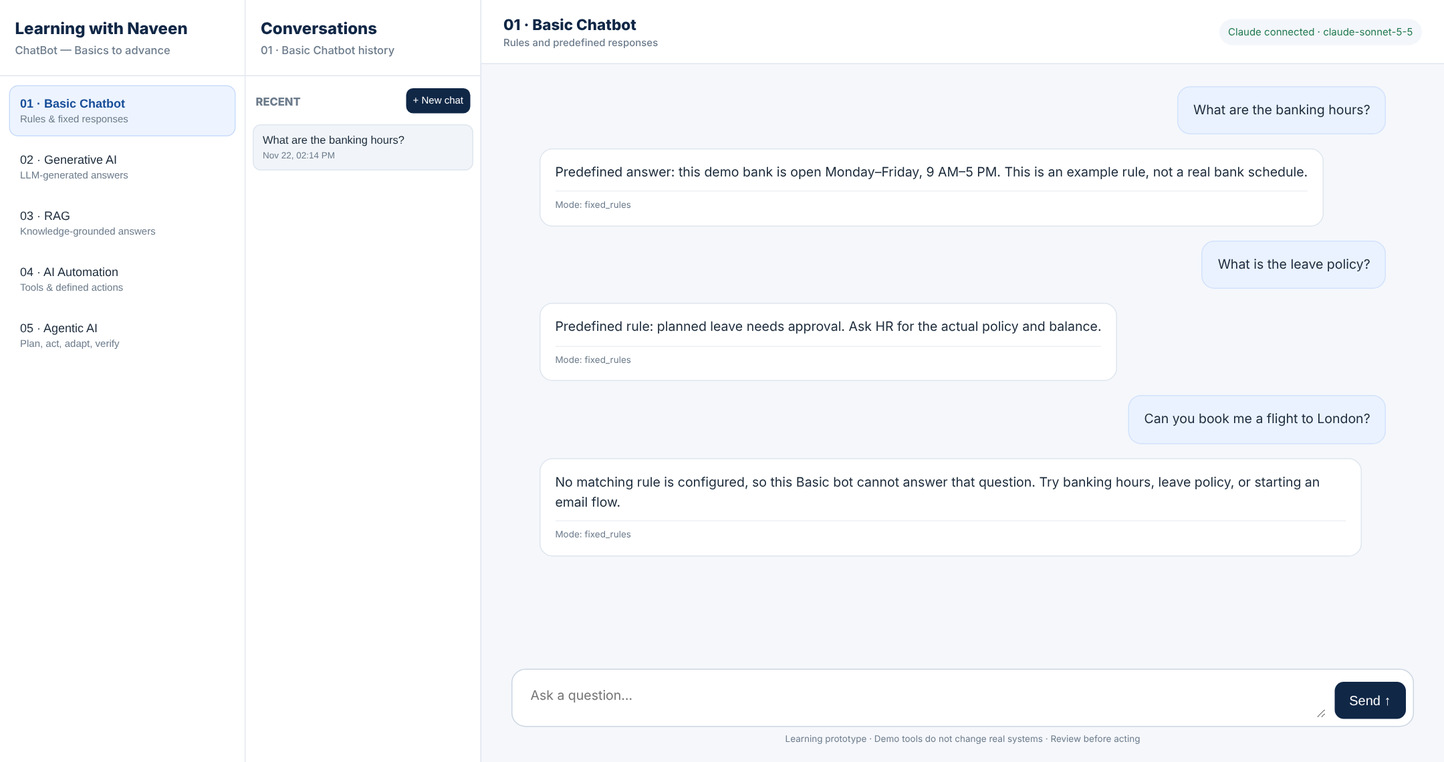
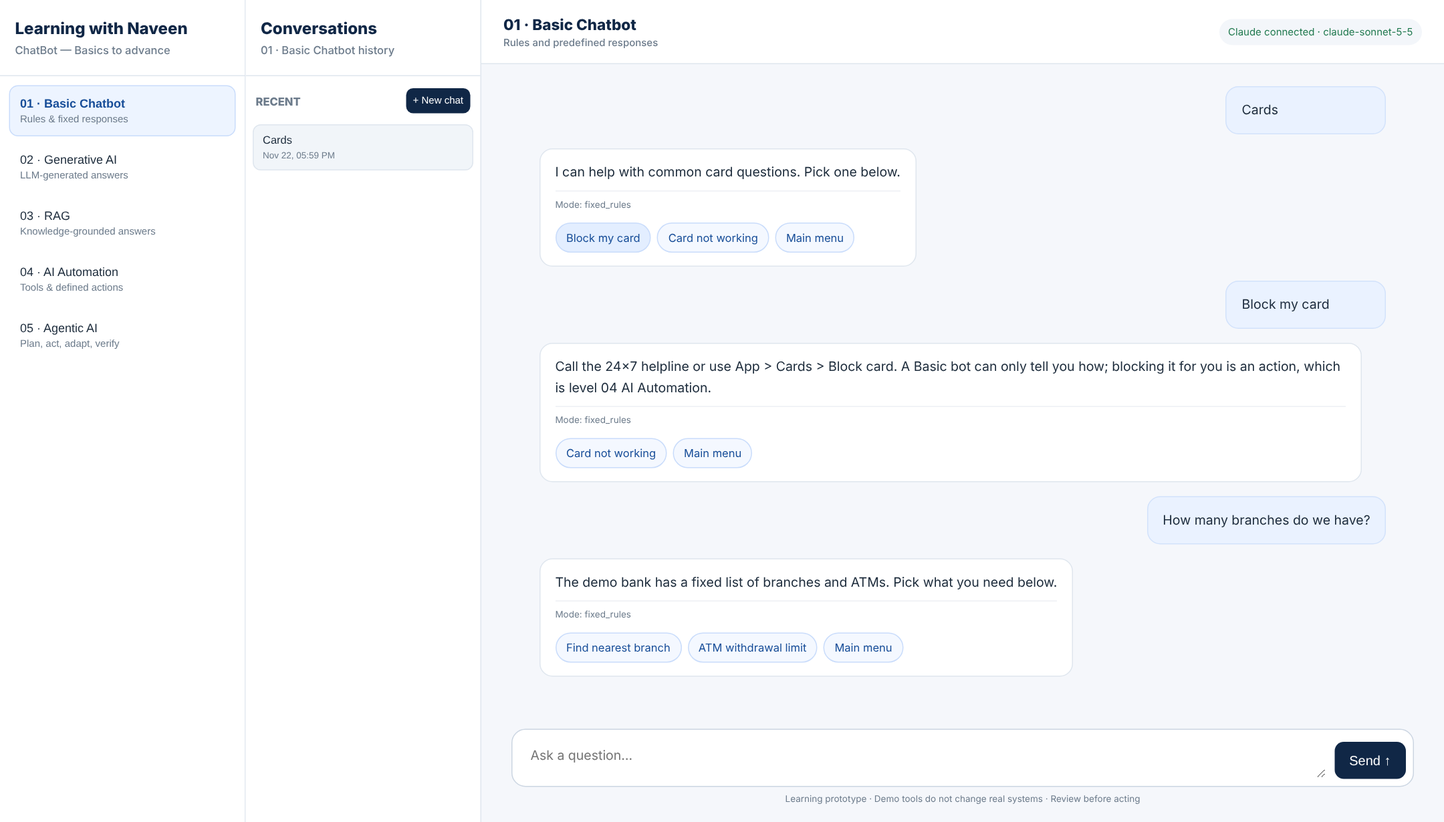
Basic chatbot: guided menu with follow-up questions

diff --git a/static/index.html b/static/index.html
@@ -1,6 +1,6 @@
 <!doctype html><html lang="en"><head><meta charset="utf-8"><meta name="viewport" content="width=device-width,initial-scale=1"><title>Learning with Naveen | Chatbot Lab</title>
 <style>
-:root{--navy:#102746;--blue:#2876d2;--cyan:#25b6df;--purple:#805ac2;--green:#299e70;--gold:#eab037;--ink:#1c2b3b;--muted:#6c7b8b;--line:#dfe6ee;--bg:#f5f7fb}*{box-sizing:border-box}body{margin:0;font-family:Inter,"Segoe UI",Arial,sans-serif;color:var(--ink);background:var(--bg);height:100vh;overflow:hidden}.app{display:grid;grid-template-columns:245px 235px minmax(320px,1fr);height:100vh}.side{background:#fff;border-right:1px solid var(--line);display:flex;flex-direction:column;min-height:0}.brand{padding:18px 15px;border-bottom:1px solid var(--line);font-weight:800;color:var(--navy)}.brand small{display:block;font-size:11px;color:var(--muted);font-weight:500;margin-top:5px}.bots{padding:9px;display:grid;gap:5px}.bot{border:1px solid transparent;background:white;text-align:left;padding:10px;border-radius:9px;cursor:pointer;color:var(--ink);font-size:12px}.bot.active{background:#edf4ff;border-color:#c9dcfb;color:#174d98;font-weight:700}.bot span{display:block;color:var(--muted);font-size:10px;font-weight:400;margin-top:4px}.histhead{padding:12px 10px 8px;font-size:11px;font-weight:800;color:var(--muted);display:flex;justify-content:space-between;align-items:center}.new{border:0;background:var(--navy);color:white;border-radius:7px;padding:7px;cursor:pointer;font-size:10px}.history{padding:0 7px 12px;overflow:auto}.item{width:100%;text-align:left;border:1px solid transparent;background:white;padding:9px;border-radius:8px;cursor:pointer;margin:3px 0;color:var(--ink);font-size:11px;white-space:nowrap;overflow:hidden;text-overflow:ellipsis}.item.active{background:#f1f5f9;border-color:var(--line)}.item small{display:block;color:var(--muted);font-size:9px;margin-top:4px}.main{display:flex;flex-direction:column;min-width:0;min-height:0}.top{height:64px;display:flex;align-items:center;justify-content:space-between;padding:0 22px;background:white;border-bottom:1px solid var(--line)}.tt{font-weight:800;color:var(--navy);font-size:15px}.tt small{display:block;font-size:10px;font-weight:500;color:var(--muted);margin-top:3px}.status{font-size:10px;color:var(--muted);background:#f3f6fa;border-radius:99px;padding:7px 9px}.messages{flex:1;overflow:auto;padding:22px clamp(16px,4vw,60px);display:flex;flex-direction:column;gap:14px}.welcome{max-width:700px;margin:auto;text-align:center;padding:22px}.symbol{font-size:34px}.welcome h1{font-size:24px;color:var(--navy);margin:12px 0 8px}.welcome p{color:var(--muted);line-height:1.6;font-size:13px}.quick{display:flex;gap:8px;justify-content:center;flex-wrap:wrap;margin-top:18px}.quick button{border:1px solid var(--line);background:white;padding:9px 11px;border-radius:10px;cursor:pointer;color:var(--ink);font-size:11px}.msg{max-width:820px;width:fit-content;min-width:160px;padding:13px 15px;border:1px solid var(--line);background:white;border-radius:13px;line-height:1.55;font-size:13px;white-space:pre-wrap;overflow-wrap:anywhere}.msg.user{align-self:flex-end;background:#eaf2ff;border-color:#d2e2fb}.msg.assistant{align-self:flex-start}.meta{font-size:9px;color:var(--muted);margin-top:8px;border-top:1px solid #edf0f4;padding-top:7px}.composerwrap{padding:12px 22px 17px;background:linear-gradient(transparent,var(--bg) 20%)}.composer{max-width:900px;margin:auto;background:white;border:1px solid #ccd6e2;border-radius:14px;padding:7px;display:flex;align-items:flex-end;gap:8px}.composer textarea{border:0;outline:0;resize:vertical;flex:1;min-height:42px;max-height:130px;padding:11px;font:inherit;font-size:13px;color:var(--ink)}.send{background:var(--navy);color:white;border:0;border-radius:9px;padding:11px 15px;cursor:pointer}.send:disabled{opacity:.5}.foot{text-align:center;color:var(--muted);font-size:9px;margin-top:7px}@media(max-width:800px){.app{grid-template-columns:175px minmax(280px,1fr)}.botside{display:none}.messages{padding:14px}.top{padding:0 13px}}@media(max-width:550px){.app{grid-template-columns:65px minmax(0,1fr)}.brand{padding:12px 5px;font-size:10px}.brand small{display:none}.bots{padding:4px}.bot{font-size:9px;padding:8px 3px}.bot span{display:none}.histhead{font-size:0;padding:7px 3px}.new{font-size:8px;padding:5px}.item{font-size:9px;padding:6px}.item small{display:none}.status{display:none}}
+:root{--navy:#102746;--blue:#2876d2;--cyan:#25b6df;--purple:#805ac2;--green:#299e70;--gold:#eab037;--ink:#1c2b3b;--muted:#6c7b8b;--line:#dfe6ee;--bg:#f5f7fb}*{box-sizing:border-box}body{margin:0;font-family:Inter,"Segoe UI",Arial,sans-serif;color:var(--ink);background:var(--bg);height:100vh;overflow:hidden}.app{display:grid;grid-template-columns:245px 235px minmax(320px,1fr);height:100vh}.side{background:#fff;border-right:1px solid var(--line);display:flex;flex-direction:column;min-height:0}.brand{padding:18px 15px;border-bottom:1px solid var(--line);font-weight:800;color:var(--navy)}.brand small{display:block;font-size:11px;color:var(--muted);font-weight:500;margin-top:5px}.bots{padding:9px;display:grid;gap:5px}.bot{border:1px solid transparent;background:white;text-align:left;padding:10px;border-radius:9px;cursor:pointer;color:var(--ink);font-size:12px}.bot.active{background:#edf4ff;border-color:#c9dcfb;color:#174d98;font-weight:700}.bot span{display:block;color:var(--muted);font-size:10px;font-weight:400;margin-top:4px}.histhead{padding:12px 10px 8px;font-size:11px;font-weight:800;color:var(--muted);display:flex;justify-content:space-between;align-items:center}.new{border:0;background:var(--navy);color:white;border-radius:7px;padding:7px;cursor:pointer;font-size:10px}.history{padding:0 7px 12px;overflow:auto}.item{width:100%;text-align:left;border:1px solid transparent;background:white;padding:9px;border-radius:8px;cursor:pointer;margin:3px 0;color:var(--ink);font-size:11px;white-space:nowrap;overflow:hidden;text-overflow:ellipsis}.item.active{background:#f1f5f9;border-color:var(--line)}.item small{display:block;color:var(--muted);font-size:9px;margin-top:4px}.main{display:flex;flex-direction:column;min-width:0;min-height:0}.top{height:64px;display:flex;align-items:center;justify-content:space-between;padding:0 22px;background:white;border-bottom:1px solid var(--line)}.tt{font-weight:800;color:var(--navy);font-size:15px}.tt small{display:block;font-size:10px;font-weight:500;color:var(--muted);margin-top:3px}.status{font-size:10px;color:var(--muted);background:#f3f6fa;border-radius:99px;padding:7px 9px}.messages{flex:1;overflow:auto;padding:22px clamp(16px,4vw,60px);display:flex;flex-direction:column;gap:14px}.welcome{max-width:700px;margin:auto;text-align:center;padding:22px}.symbol{font-size:34px}.welcome h1{font-size:24px;color:var(--navy);margin:12px 0 8px}.welcome p{color:var(--muted);line-height:1.6;font-size:13px}.quick{display:flex;gap:8px;justify-content:center;flex-wrap:wrap;margin-top:18px}.quick button{border:1px solid var(--line);background:white;padding:9px 11px;border-radius:10px;cursor:pointer;color:var(--ink);font-size:11px}.msg{max-width:820px;width:fit-content;min-width:160px;padding:13px 15px;border:1px solid var(--line);background:white;border-radius:13px;line-height:1.55;font-size:13px;white-space:pre-wrap;overflow-wrap:anywhere}.msg.user{align-self:flex-end;background:#eaf2ff;border-color:#d2e2fb}.msg.assistant{align-self:flex-start}.opts{display:flex;gap:6px;flex-wrap:wrap;margin-top:10px;white-space:normal}.opts button{border:1px solid #c9dcfb;background:#f4f8ff;color:#174d98;padding:7px 10px;border-radius:99px;cursor:pointer;font-size:11px;font-family:inherit}.opts button:hover{background:#e3eeff}.opts button:disabled{opacity:.5;cursor:default}.meta{font-size:9px;color:var(--muted);margin-top:8px;border-top:1px solid #edf0f4;padding-top:7px}.composerwrap{padding:12px 22px 17px;background:linear-gradient(transparent,var(--bg) 20%)}.composer{max-width:900px;margin:auto;background:white;border:1px solid #ccd6e2;border-radius:14px;padding:7px;display:flex;align-items:flex-end;gap:8px}.composer textarea{border:0;outline:0;resize:vertical;flex:1;min-height:42px;max-height:130px;padding:11px;font:inherit;font-size:13px;color:var(--ink)}.send{background:var(--navy);color:white;border:0;border-radius:9px;padding:11px 15px;cursor:pointer}.send:disabled{opacity:.5}.foot{text-align:center;color:var(--muted);font-size:9px;margin-top:7px}@media(max-width:800px){.app{grid-template-columns:175px minmax(280px,1fr)}.botside{display:none}.messages{padding:14px}.top{padding:0 13px}}@media(max-width:550px){.app{grid-template-columns:65px minmax(0,1fr)}.brand{padding:12px 5px;font-size:10px}.brand small{display:none}.bots{padding:4px}.bot{font-size:9px;padding:8px 3px}.bot span{display:none}.histhead{font-size:0;padding:7px 3px}.new{font-size:8px;padding:5px}.item{font-size:9px;padding:6px}.item small{display:none}.status{display:none}}
 </style></head><body><div class="app">
 <aside class="side botside"><div class="brand">Learning with Naveen<small>ChatBot — Basics to advance</small></div><div class="bots">
 <button class="bot active" data-bot="basic">01 · Basic Chatbot<span>Rules & fixed responses</span></button><button class="bot" data-bot="generative">02 · Generative AI<span>LLM-generated answers</span></button><button class="bot" data-bot="rag">03 · RAG<span>Knowledge-grounded answers</span></button><button class="bot" data-bot="automation">04 · AI Automation<span>Tools & defined actions</span></button><button class="bot" data-bot="agentic">05 · Agentic AI<span>Plan, act, adapt, verify</span></button></div></aside>
@@ -9,15 +9,17 @@
 <script>
 const bots={basic:{title:"01 · Basic Chatbot",sub:"Rules and predefined responses",symbol:"💬"},generative:{title:"02 · Generative AI",sub:"LLM-generated answers",symbol:"✨"},rag:{title:"03 · RAG",sub:"Retrieval-augmented generation",symbol:"📚"},automation:{title:"04 · AI Automation",sub:"LLM plus allow-listed demo tools",symbol:"⚙"},agentic:{title:"05 · Agentic AI",sub:"Bounded plan, act, observe and verify",symbol:"🎯"}};
 let bot="basic",cid=null,busy=false;const $=x=>document.getElementById(x);function esc(s){return s.replace(/[&<>"']/g,c=>({"&":"&amp;","<":"&lt;",">":"&gt;",'"':"&quot;","'":"&#39;"}[c]))}function date(s){try{return new Date(s).toLocaleString([],{month:"short",day:"numeric",hour:"2-digit",minute:"2-digit"})}catch{return""}}
-function welcome(){$("messages").innerHTML=`<div class="welcome"><div class="symbol">${bots[bot].symbol}</div><h1>${bots[bot].title}</h1><p>${bots[bot].sub}. Ask a question below. Switch bots to compare capabilities.</p><div class="quick"><button>Explain a declined payment</button><button>What is the leave policy?</button><button>Help me draft an email</button></div></div>`;document.querySelectorAll(".quick button").forEach(b=>b.onclick=()=>{$("input").value=b.textContent;$("input").focus()})}
-function add(role,text,meta){$("messages").querySelector(".welcome")?.remove();let d=document.createElement("div");d.className="msg "+role;d.textContent=text;if(meta){let m=document.createElement("div");m.className="meta";let p=[];if(meta.sources?.length)p.push("Sources: "+meta.sources.map(x=>x.source).join(", "));if(meta.tools?.length)p.push("Tools: "+meta.tools.map(x=>x.tool).join(", "));if(meta.mode)p.push("Mode: "+meta.mode);m.textContent=p.join(" · ");d.appendChild(m)}$("messages").appendChild(d);$("messages").scrollTop=$("messages").scrollHeight}
+function welcome(){let menu=bot==="basic";$("messages").innerHTML=`<div class="welcome"><div class="symbol">${bots[bot].symbol}</div><h1>${bots[bot].title}</h1><p>${bots[bot].sub}. ${menu?"Pick a topic below; each answer offers the next questions.":"Ask a question below. Switch bots to compare capabilities."}</p><div class="quick">${menu?"":"<button>Explain a declined payment</button><button>What is the leave policy?</button><button>Help me draft an email</button>"}</div></div>`;if(menu){api("/api/basic/menu").then(m=>{let q=$("messages").querySelector(".quick");if(!q)return;m.options.forEach(o=>{let b=document.createElement("button");b.textContent=o;b.onclick=()=>send(o);q.appendChild(b)})}).catch(()=>{})}else document.querySelectorAll(".quick button").forEach(b=>b.onclick=()=>{$("input").value=b.textContent;$("input").focus()})}
+function add(role,text,meta){$("messages").querySelector(".welcome")?.remove();let d=document.createElement("div");d.className="msg "+role;d.textContent=text;if(meta){let m=document.createElement("div");m.className="meta";let p=[];if(meta.sources?.length)p.push("Sources: "+meta.sources.map(x=>x.source).join(", "));if(meta.tools?.length)p.push("Tools: "+meta.tools.map(x=>x.tool).join(", "));if(meta.mode)p.push("Mode: "+meta.mode);if(p.length){m.textContent=p.join(" · ");d.appendChild(m)}if(meta.options?.length)d.appendChild(chips(meta.options))}$("messages").appendChild(d);$("messages").scrollTop=$("messages").scrollHeight}
+function chips(list){let o=document.createElement("div");o.className="opts";list.forEach(t=>{let b=document.createElement("button");b.type="button";b.textContent=t;b.onclick=()=>send(t);o.appendChild(b)});return o}
 async function api(url,opt={}){let r=await fetch(url,{headers:{"Content-Type":"application/json"},...opt});let d=await r.json().catch(()=>({detail:"Server response could not be read"}));if(!r.ok)throw Error(d.detail||"Request failed");return d}
 async function refresh(){let list=await api("/api/conversations?bot="+bot);$("history").innerHTML="";if(!list.length){$("history").innerHTML='<div style="padding:10px;color:#8996a5;font-size:11px">No chats yet. Start a conversation.</div>';return}list.forEach(x=>{let b=document.createElement("button");b.className="item"+(x.id===cid?" active":"");b.innerHTML=esc(x.title)+"<small>"+date(x.updated_at)+"</small>";b.onclick=()=>open(x.id);$("history").appendChild(b)})}
 async function fresh(){let x=await api("/api/conversations",{method:"POST",body:JSON.stringify({bot})});cid=x.id;welcome();await refresh();$("input").focus()}
-async function open(id){let d=await api("/api/conversations/"+id);cid=id;$("messages").innerHTML="";d.messages.forEach(m=>add(m.role,m.content));await refresh()}
+async function open(id){let d=await api("/api/conversations/"+id);cid=id;$("messages").innerHTML="";d.messages.forEach(m=>add(m.role,m.content));if(bot==="basic"&&d.messages.length){try{let m=await api("/api/basic/menu");add("assistant",m.answer,{options:m.options})}catch{}}await refresh()}
 async function switchBot(b){bot=b;cid=null;document.querySelectorAll(".bot").forEach(x=>x.classList.toggle("active",x.dataset.bot===bot));$("title").innerHTML=esc(bots[bot].title)+"<small>"+esc(bots[bot].sub)+"</small>";$("hsub").textContent=bots[bot].title+" history";await refresh();welcome()}
 document.querySelectorAll(".bot").forEach(b=>b.onclick=()=>switchBot(b.dataset.bot));$("new").onclick=()=>fresh();
-$("form").onsubmit=async e=>{e.preventDefault();if(busy)return;let text=$("input").value.trim();if(!text)return;busy=true;$("send").disabled=true;$("input").value="";try{if(!cid)await fresh();add("user",text);let wait=document.createElement("div");wait.className="msg assistant";wait.textContent="Thinking…";$("messages").appendChild(wait);try{let d=await api("/api/chat",{method:"POST",body:JSON.stringify({conversation_id:cid,bot,message:text})});wait.remove();add("assistant",d.answer,d.metadata);await refresh()}catch(err){wait.remove();add("assistant","Could not complete request: "+err.message)}}catch(err){add("assistant","Could not create conversation: "+err.message)}finally{busy=false;$("send").disabled=false;$("input").focus()}};
+async function send(text){text=(text||"").trim();if(busy||!text)return;busy=true;$("send").disabled=true;$("input").value="";try{if(!cid)await fresh();add("user",text);let wait=document.createElement("div");wait.className="msg assistant";wait.textContent="Thinking…";$("messages").appendChild(wait);try{let d=await api("/api/chat",{method:"POST",body:JSON.stringify({conversation_id:cid,bot,message:text})});wait.remove();add("assistant",d.answer,d.metadata);await refresh()}catch(err){wait.remove();add("assistant","Could not complete request: "+err.message)}}catch(err){add("assistant","Could not create conversation: "+err.message)}finally{busy=false;$("send").disabled=false;$("input").focus()}}
+$("form").onsubmit=e=>{e.preventDefault();send($("input").value)};
 $("input").addEventListener("keydown",e=>{if(e.key==="Enter"&&!e.shiftKey){e.preventDefault();$("form").requestSubmit()}});
 api("/api/health").then(h=>{$("status").textContent=h.llm_configured?"Claude connected · "+h.model:"Anthropic key needed";$("status").style.color=h.llm_configured?"#227a50":"#9a6200"}).catch(()=>$("status").textContent="Start backend to connect");switchBot("basic").catch(welcome);
 </script></body></html>

diff --git a/app.py b/app.py
@@ -123,16 +123,67 @@ def history(cid):
         return [dict(x) for x in c.execute("SELECT role,content FROM messages WHERE conversation_id=? ORDER BY id", (cid,)).fetchall()]
 
 
-# ---------- 01 Basic: fixed rules ----------
+# ---------- 01 Basic: fixed rules with a guided menu ----------
+# Each node: button label, fixed answer, follow-up options (node ids), keywords for typed questions.
+# Answers are demo content for a fictional bank and company, not real policies.
+BASIC_TREE = {
+    "menu": {"label": "Main menu", "answer": "Choose a topic below. This Basic bot only knows these fixed answers.",
+             "options": ["hours", "branches", "cards", "leave", "email"], "keywords": ["menu", "help", "start", "hi", "hello"]},
+    # top level
+    "hours": {"label": "Banking hours", "answer": "This demo bank is open Monday to Friday, 9 AM to 5 PM. This is an example rule, not a real bank schedule.",
+              "options": ["holidays", "cutoff", "menu"], "keywords": ["banking hours", "bank hours", "opening hours", "working hours", "open", "timing"]},
+    "branches": {"label": "Branches and ATMs", "answer": "The demo bank has a fixed list of branches and ATMs. Pick what you need below.",
+                 "options": ["nearest", "atm_limit", "menu"], "keywords": ["branch", "branches", "location", "locations", "atm"]},
+    "cards": {"label": "Cards", "answer": "I can help with common card questions. Pick one below.",
+              "options": ["block", "not_working", "menu"], "keywords": ["card", "cards"]},
+    "leave": {"label": "Leave policy", "answer": "Planned leave needs manager approval and should be requested 5 working days ahead (demo rule).",
+              "options": ["apply", "balance", "menu"], "keywords": ["leave policy", "leave", "vacation", "holiday leave", "time off"]},
+    "email": {"label": "Write an email", "answer": "I have fixed email templates. Choose one and fill in the [brackets] yourself.",
+              "options": ["leave_email", "status_email", "menu"], "keywords": ["email", "mail", "draft", "write"]},
+    # second level
+    "holidays": {"label": "Holiday schedule", "answer": "The demo bank is closed on weekends and national public holidays. Online banking stays available.",
+                 "options": ["cutoff", "menu"], "keywords": ["holiday schedule", "public holiday", "closed"]},
+    "cutoff": {"label": "Same-day payment cut-off", "answer": "Payments submitted before 2 PM on a working day are processed the same day; later ones go the next working day (demo rule).",
+               "options": ["hours", "menu"], "keywords": ["cut-off", "cutoff", "same day", "same-day"]},
+    "nearest": {"label": "Find nearest branch", "answer": "Use the branch locator on the demo bank's website or app and enter your PIN code. A Basic bot cannot look up your location.",
+                "options": ["atm_limit", "menu"], "keywords": ["nearest", "near me", "closest"]},
+    "atm_limit": {"label": "ATM withdrawal limit", "answer": "The demo daily ATM withdrawal limit is 25,000 per card. Limits on real cards vary by account.",
+                  "options": ["nearest", "menu"], "keywords": ["withdrawal limit", "atm limit", "cash limit"]},
+    "block": {"label": "Block my card", "answer": "Call the 24x7 helpline or use App > Cards > Block card. A Basic bot can only tell you how; blocking it for you is an action, which is level 04 AI Automation.",
+              "options": ["not_working", "menu"], "keywords": ["block", "lost", "stolen"]},
+    "not_working": {"label": "Card not working", "answer": "Check that the card is not expired, blocked or over its limit, and that the PIN is correct. If it still fails, contact support.",
+                    "options": ["block", "menu"], "keywords": ["not working", "declined", "failed", "card error"]},
+    "apply": {"label": "How do I apply?", "answer": "Apply in the HR portal: Leave > New request, choose dates and the leave type, then submit for manager approval (demo process).",
+              "options": ["balance", "leave_email", "menu"], "keywords": ["apply", "how do i apply", "request leave"]},
+    "balance": {"label": "My leave balance", "answer": "A Basic bot cannot see your balance: that needs a lookup in the HR system, which is what level 04 AI Automation adds.",
+                "options": ["apply", "menu"], "keywords": ["balance", "how many days", "remaining"]},
+    "leave_email": {"label": "Leave request email", "answer": "Subject: Leave request: [dates]\n\nHi [manager],\n\nI would like to take leave from [start date] to [end date] for [reason]. [Colleague] has agreed to cover urgent work, and my current tasks are up to date.\n\nCould you please approve?\n\nThanks,\n[Your name]",
+                    "options": ["status_email", "apply", "menu"], "keywords": ["leave email", "leave mail", "leave request email"]},
+    "status_email": {"label": "Status update email", "answer": "Subject: Status update: [project] ([date])\n\nHi [name],\n\nDone: [what was completed]\nNext: [what happens next]\nRisks or help needed: [any blockers]\n\nRegards,\n[Your name]",
+                     "options": ["leave_email", "menu"], "keywords": ["status email", "status update", "update email"]},
+}
+# Typed questions: check specific (second-level) topics before broad ones.
+BASIC_MATCH_ORDER = ["leave_email", "status_email", "holidays", "cutoff", "nearest", "atm_limit", "block", "not_working",
+                     "apply", "balance", "hours", "branches", "cards", "leave", "email", "menu"]
+
+
+def basic_options(node_id):
+    return [BASIC_TREE[o]["label"] for o in BASIC_TREE[node_id]["options"]]
+
+
 def basic(q):
-    s = q.lower()
-    if any(x in s for x in ["banking hours", "bank hours", "opening hours", "working hours"]):
-        return "Predefined answer: this demo bank is open Monday–Friday, 9 AM–5 PM. This is an example rule, not a real bank schedule."
-    if any(x in s for x in ["write an email", "draft an email", "leave email", "email to my manager"]):
-        return "Predefined email flow: please provide the purpose, dates/key details, and preferred tone."
-    if "leave policy" in s:
-        return "Predefined rule: planned leave needs approval. Ask HR for the actual policy and balance."
-    return "No matching rule is configured, so this Basic bot cannot answer that question. Try banking hours, leave policy, or starting an email flow."
+    """Return (answer, follow-up option labels). Buttons send their label; typed text is matched by keywords."""
+    s = q.lower().strip()
+    for nid, node in BASIC_TREE.items():
+        if s == node["label"].lower():
+            return node["answer"], basic_options(nid)
+    for nid in BASIC_MATCH_ORDER:
+        words = re.findall(r"[a-z0-9-]+", s)
+        for k in BASIC_TREE[nid]["keywords"]:
+            if (" " in k and k in s) or (" " not in k and k in words):
+                return BASIC_TREE[nid]["answer"], basic_options(nid)
+    return ("No matching rule is configured, so this Basic bot cannot answer that question. Choose one of the topics below.",
+            basic_options("menu"))
 
 
 # ---------- 03 RAG: keyword retrieval over knowledge/*.md ----------
@@ -186,6 +237,11 @@ def health():
     return {"status": "ok", "provider": "Anthropic", "model": MODEL, "llm_configured": bool(os.getenv("ANTHROPIC_API_KEY"))}
 
 
+@app.get("/api/basic/menu")
+def basic_menu():
+    return {"answer": BASIC_TREE["menu"]["answer"], "options": basic_options("menu")}
+
+
 @app.get("/api/conversations")
 def conversations(bot: Optional[str] = None):
     with conn() as c:
@@ -235,7 +291,7 @@ def chat(b: ChatReq):
     meta = {"mode": b.bot, "sources": [], "tools": []}
 
     if b.bot == "basic":
-        answer = basic(b.message)
+        answer, meta["options"] = basic(b.message)
         meta["mode"] = "fixed_rules"
 
     elif b.bot == "generative":

diff --git a/tests/test_app.py b/tests/test_app.py
@@ -77,9 +77,24 @@ def test_basic_uses_rules_only(env):
     _, r = ask(client, "basic", "What are the banking hours?")
     assert r.status_code == 200
     assert "Monday" in r.json()["answer"]
+    assert r.json()["metadata"]["options"] == ["Holiday schedule", "Same-day payment cut-off", "Main menu"]
     _, r = ask(client, "basic", "Tell me a joke")
     assert "No matching rule" in r.json()["answer"]
+    assert "Banking hours" in r.json()["metadata"]["options"]  # falls back to the main menu
     assert calls == []  # Basic never calls Claude
+
+
+def test_basic_menu_follow_ups(env):
+    _, client, calls = env
+    menu = client.get("/api/basic/menu").json()
+    assert menu["options"] == ["Banking hours", "Branches and ATMs", "Cards", "Leave policy", "Write an email"]
+    cid, r = ask(client, "basic", "Cards")  # a button click sends its label
+    assert "Block my card" in r.json()["metadata"]["options"]
+    _, r = ask(client, "basic", "Block my card", cid)
+    assert "level 04" in r.json()["answer"]
+    _, r = ask(client, "basic", "Start a new mail")  # typed text matched by keyword
+    assert "Leave request email" in r.json()["metadata"]["options"]
+    assert calls == []
 
 
 def test_generative_calls_claude(env):

diff --git a/docs/PM004_06_Workflows.md b/docs/PM004_06_Workflows.md
@@ -14,7 +14,7 @@ The highlighted box is what the user gets back. What changes from level to level
 
 | Level | User does | User sees | User can trust it for |
 | --- | --- | --- | --- |
-| 01 Basic | Asks a known question | A fixed answer, or a clear "no rule" message | Exact, approved wording |
+| 01 Basic | Clicks a topic or asks a known question | A fixed answer with buttons for the next questions, or the main menu if nothing matches | Exact, approved wording |
 | 02 Generative AI | Asks anything in their own words | A new written answer | Drafting and explaining; not company facts |
 | 03 RAG | Asks about company policy or procedure | An answer plus the source file names | Answers grounded in the documents given |
 | 04 AI Automation | Asks for a known task | A summary plus the tools that ran | Defined tasks with predictable steps |
@@ -36,7 +36,7 @@ Step 5 runs different functions in `app.py` for each level. The number of Claude
 
 | Level | Key functions | Claude calls per message | Backlog upgrade |
 | --- | --- | --- | --- |
-| 01 Basic | `basic()` | 0 | None needed |
+| 01 Basic | `basic()` over `BASIC_TREE` (16 topics, each with follow-up options) | 0 | None needed |
 | 02 Generative AI | `history()`, `clean_messages()`, `llm()` | 1 | None needed |
 | 03 RAG | `retrieve()` (keyword overlap, top 3 chunks), `llm()` with the chunks as context | 0 when nothing matches, else 1 | Embedding search with a vector store |
 | 04 AI Automation | keyword rules, `tool()`, `llm()` to summarise | 1 | Claude native tool calling |
@@ -61,12 +61,13 @@ Every failure returns a clear message instead of a guess, and the safety rules a
 
 ## 5. Interfaces and data
 
-The page talks to six small API endpoints, and two SQLite tables hold all conversations.
+The page talks to seven small API endpoints, and two SQLite tables hold all conversations.
 
 | Endpoint | Purpose |
 | --- | --- |
 | `GET /` | Serves the web page |
 | `GET /api/health` | Status badge: provider, model, whether a key is configured |
+| `GET /api/basic/menu` | Main menu topics for the Basic bot |
 | `GET /api/conversations?bot=<mode>` | Lists saved conversations for one mode, newest first |
 | `POST /api/conversations` | Starts a new conversation for a mode |
 | `GET /api/conversations/{id}` | Reopens one conversation with all its messages |

diff --git a/docs/PM004_04_Runbook.md b/docs/PM004_04_Runbook.md
@@ -10,7 +10,7 @@ The app shows five chatbots side by side, from fixed rules to a goal-driven agen
 
 | # | Chatbot | What it does | Uses Claude | Try asking | Shown under the answer |
 | --- | --- | --- | --- | --- | --- |
-| 01 | Basic Chatbot | Matches keywords to fixed answers; anything else gets a fallback | No | "What are the banking hours?" | Mode: fixed_rules |
+| 01 | Basic Chatbot | Guided menu: pick a topic, then follow-up buttons; typed questions matched by keyword; anything else returns the main menu | No | Click **Cards**, then **Block my card** | Follow-up buttons, mode: fixed_rules |
 | 02 | Generative AI | Writes a free answer from the question alone | Yes | "Help me draft an email to my manager asking for 2 days' leave" | Mode |
 | 03 | RAG | Finds matching text in `knowledge/` and answers only from it, naming the file | Yes | "What is the leave policy?" | Sources, mode |
 | 04 | AI Automation | Keyword rules decide which demo tools to run; Claude summarises the results | Yes | "I need leave next week, check my balance" | Tools used, mode |
@@ -108,7 +108,7 @@ Results vary slightly between runs for modes 02 to 05.
 | To do this | Change | Note |
 | --- | --- | --- |
 | Teach the RAG bot your own content | Add a `.md` file to `knowledge/`; separate topics with a blank line | Demo or non-sensitive content only |
-| Add a Basic rule | Add a keyword check and fixed reply in `basic()` in `app.py` | Keep wording exact and approved |
+| Add a Basic menu topic | Add a node to `BASIC_TREE` in `app.py` (label, answer, follow-up options, keywords), link it from a parent's options, and add it to `BASIC_MATCH_ORDER` | Keep wording exact and approved |
 | Add a demo tool | Add it to `tool()` and `ALLOWED_TOOLS`, and a keyword rule in the automation branch | Mock results only |
 | Change the model | `ANTHROPIC_MODEL` in `.env` | Restart |
 | Run the tests | `pip install -r requirements-dev.txt` then `pytest` | No key or internet needed |

diff --git a/README.md b/README.md
@@ -16,7 +16,7 @@ It is part of the **Learning with Naveen** module on the evolution of AI, and wa
 
 | # | Level | Workflow | What it adds | Best for |
 | --- | --- | --- | --- | --- |
-| 01 | Basic chatbot | User -> rule match -> fixed response | Exact, predictable answers | FAQs, regulated wording, menus |
+| 01 | Basic chatbot | User -> menu or rule match -> fixed response + next options | Exact, predictable answers | FAQs, regulated wording, menus |
 | 02 | Generative AI | Prompt -> LLM -> generated response | Understands free text, writes new content | Drafting, summarising, explaining |
 | 03 | RAG | Question -> retrieve documents -> LLM -> grounded answer | Answers from your own documents, with sources | Policies, SOPs, knowledge bases |
 | 04 | AI Automation | Request -> LLM -> tool -> action -> result | Carries out defined tasks | Tickets, lookups, recurring reports |
@@ -42,7 +42,7 @@ Real-world examples for each level, and where each is the wrong choice, are in t
 
 ![Architecture: browser, FastAPI app, five modes, SQLite history, Claude API](docs/images/architecture.png)
 
-- **01 Basic:** keyword rules in Python; never calls an AI model.
+- **01 Basic:** a guided menu of fixed questions; each answer offers the next questions as buttons, and typed questions are matched by keyword. Never calls an AI model.
 - **02 Generative AI:** sends the conversation to Claude with a short system prompt.
 - **03 RAG:** keyword retrieval over Markdown files in `knowledge/`; Claude answers only from the retrieved text and cites the file. If nothing matches, it says so instead of guessing.
 - **04 AI Automation:** keyword rules choose allow-listed demo tools (leave balance, leave policy, knowledge search, ticket, email draft); Claude summarises the results.

diff --git a/docs/PM004_01_Project_Charter.md b/docs/PM004_01_Project_Charter.md
@@ -119,7 +119,7 @@ Each level keeps what the previous one could do and adds one capability: rules, 
 
 | # | Type | Workflow | What it adds | In the prototype today |
 | --- | --- | --- | --- | --- |
-| 01 | Basic chatbot | User -> rule match -> predefined response | Fixed, predictable answers | Keyword rules for bank hours, leave policy, email flow; clear fallback |
+| 01 | Basic chatbot | User -> menu or rule match -> predefined response | Fixed, predictable answers | Guided menu of 16 demo topics (bank hours, branches, cards, leave, email templates) with follow-up buttons; falls back to the main menu |
 | 02 | Generative AI | Prompt -> LLM -> generated response | Understands free text and writes new content | Claude with a short system prompt |
 | 03 | RAG | Question -> retrieve knowledge -> LLM -> grounded answer | Answers from your own documents, with sources | Keyword retrieval over 3 demo policy files; refuses when nothing matches |
 | 04 | AI Automation | Request -> LLM -> tool or API -> action -> result | Does defined tasks through tools | Keyword rules call allow-listed demo tools; Claude summarises results |

diff --git a/CHANGELOG.md b/CHANGELOG.md
@@ -1,5 +1,12 @@
 # Changelog
 
+## 0.3.0 - 2026-11-22
+
+- Basic chatbot is now a guided menu: the welcome screen shows the main topics as buttons, every answer offers follow-up questions, and unrecognised questions return the main menu instead of a dead end.
+- 16 demo topics: banking hours, holidays, payment cut-off, branches, ATM limit, cards (block, not working), leave policy (apply, balance) and email templates.
+- New endpoint `GET /api/basic/menu`; Basic answers return their follow-up options in the metadata.
+- Tests: 10 offline tests (new: menu and follow-ups).
+
 ## 0.2.0 - 2026-11-22
 
 Moved from OpenAI to Anthropic Claude and prepared for GitHub.
